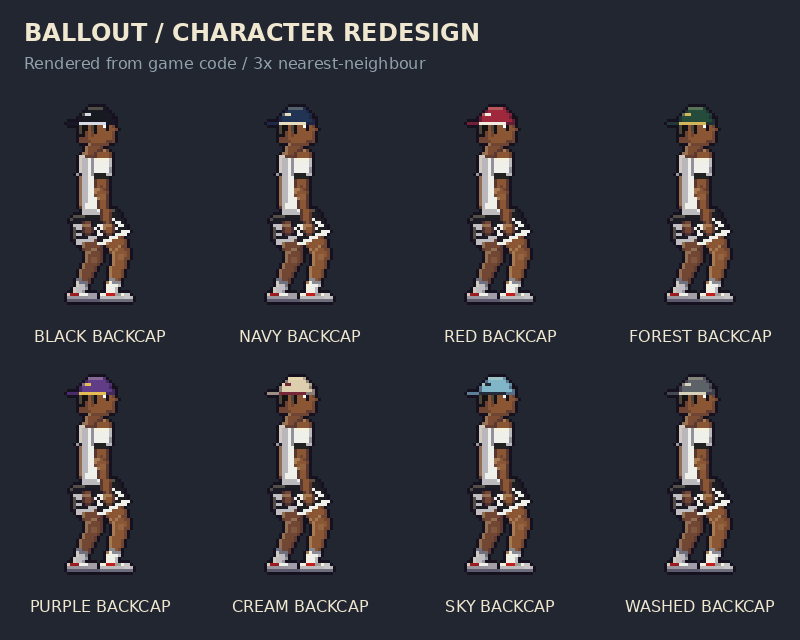
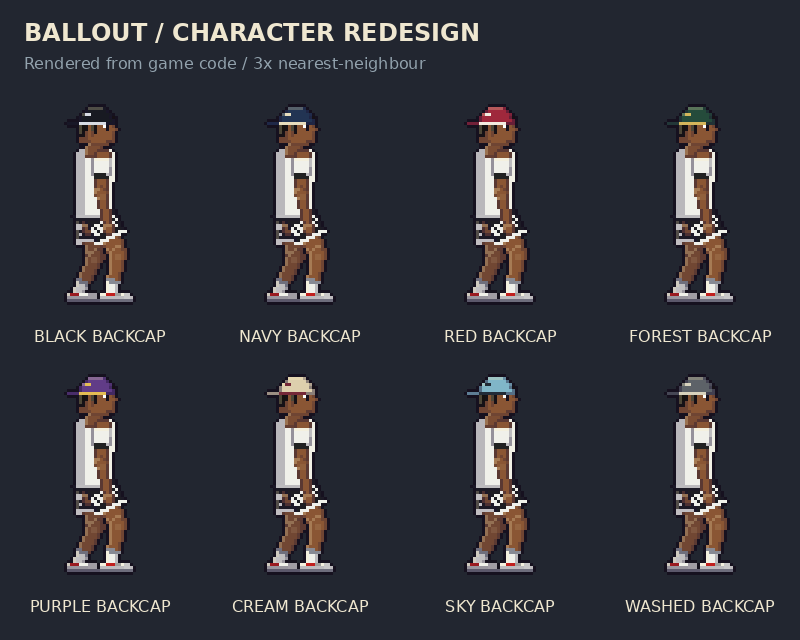
Raise shirt necklines and join oversized bottoms at the hips

diff --git a/src/puppet.ts b/src/puppet.ts
@@ -283,7 +283,8 @@ export class Puppet {
     const nx = X(neckW[0]), ny = Y(neckW[1]);
 
     const leg = (far: boolean) => {
-      const ox = far ? -9 : 9;
+      // Seat joins under the shirt; volume opens out down the thighs.
+      const ox = far ? -5 : 5;
       const fx = far ? r.bFx : r.fFx, fy = far ? r.bFy : r.fFy, ank = far ? r.bAnk : r.fAnk;
       const [a1, a2] = ik(THIGH, SHIN, bx + fx - (hipW[0] + ox), hipW[1] - (fy + ANKLE), 1);
       const hp = [hipW[0] + ox, hipW[1]];
@@ -556,19 +557,19 @@ export class Puppet {
     const cut = GARMENT_CUTS[tp];
     const height = Math.hypot(nx - hx, ny - hy) / u;
     const angle = Math.atan2(nx - hx, hy - ny);
-    const shoulderY = -height * 0.87;
-    const hemY = -cut.hem;
+    const shoulderY = -height;
+    const hemY = -cut.hem + 1.5;
     // Wider front/back and narrower profile, without collapsing at a turn.
-    const breadth = 0.62 + 0.38 * (1 - Math.abs(this.cur.turn));
+    const breadth = 0.78 + 0.22 * (1 - Math.abs(this.cur.turn));
     const widthAt = (y: number) => {
       const t = clamp((hemY - y) / Math.max(1, hemY - shoulderY), 0, 1);
       return (t < 0.72 ? lerp(cut.waist, cut.chest, t / 0.72) : lerp(cut.chest, cut.shoulder, (t - 0.72) / 0.28)) * breadth;
     };
     const cloth = (x: number, y: number) => y >= shoulderY && y <= hemY && Math.abs(x) <= widthAt(y)-Math.max(0,2-(y-shoulderY))*.7
-      && !(y < shoulderY + 2.5 && Math.abs(x) < cut.neck && (tp === 'tank' || tp === 'jersey'));
+      && !(y < shoulderY + 1.2 && Math.abs(x) < cut.neck && (tp === 'tank' || tp === 'jersey'));
     const frame = (pred: (x: number, y: number) => boolean) => b.begin().frame(hx, hy, angle, mir, u, 38, (x, y) => cloth(x,y) && pred(x,y));
     b.begin().cap(hx,hy,nx,ny,cut.waist*breadth*u,cut.waist*breadth*u,-.10,.02,false,false).commit(l.bottomColor,{line:null});
-    if(tp==='tank' || tp==='jersey') b.begin().frame(hx,hy,angle,mir,u,38,(x,y)=>y>=shoulderY && y<shoulderY+3 && Math.abs(x)<cut.neck).commit(skin,{line:null});
+    if(tp==='tank' || tp==='jersey') b.begin().frame(hx,hy,angle,mir,u,38,(x,y)=>y>=shoulderY && y<shoulderY+1.5 && Math.abs(x)<cut.neck).commit(skin,{line:null});
     b.begin().frame(hx, hy, angle, mir, u, 38, cloth).commit(l.topColor);
     // Cloth shadows follow the garment, rather than the screen or animation frame.
     b.ink((x,y) => {
